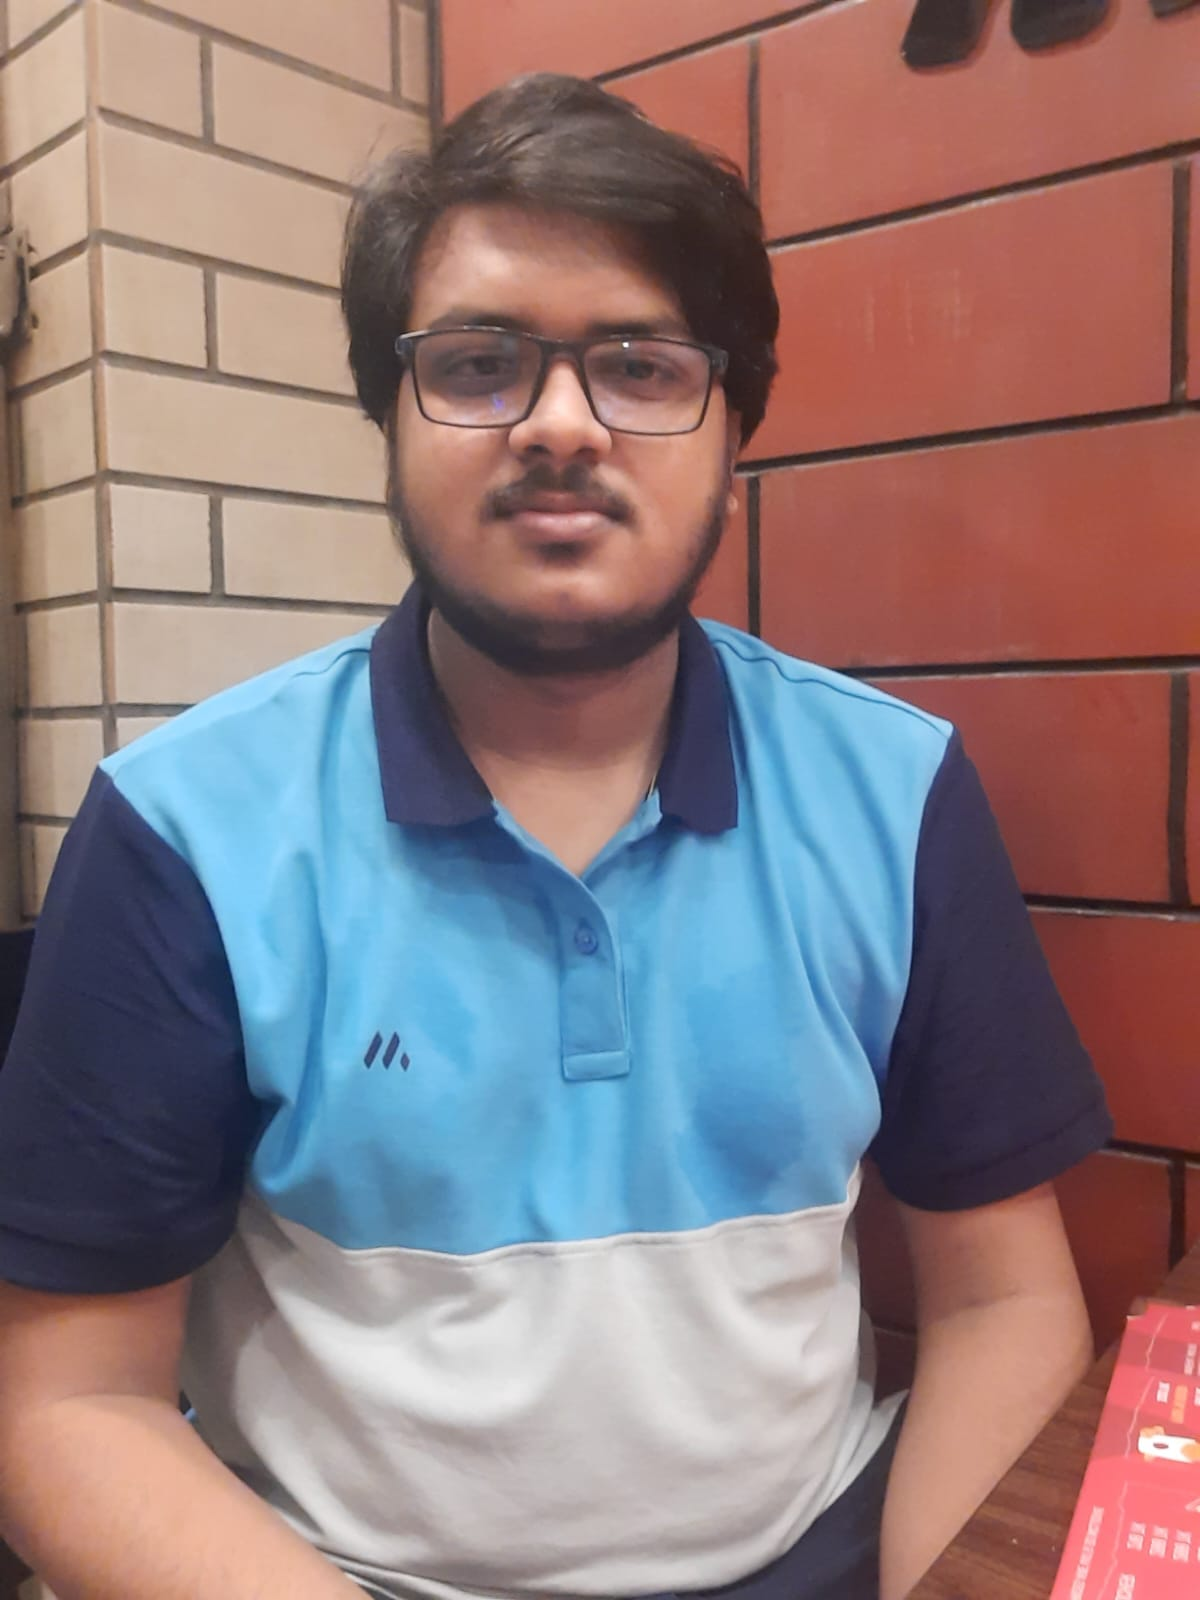
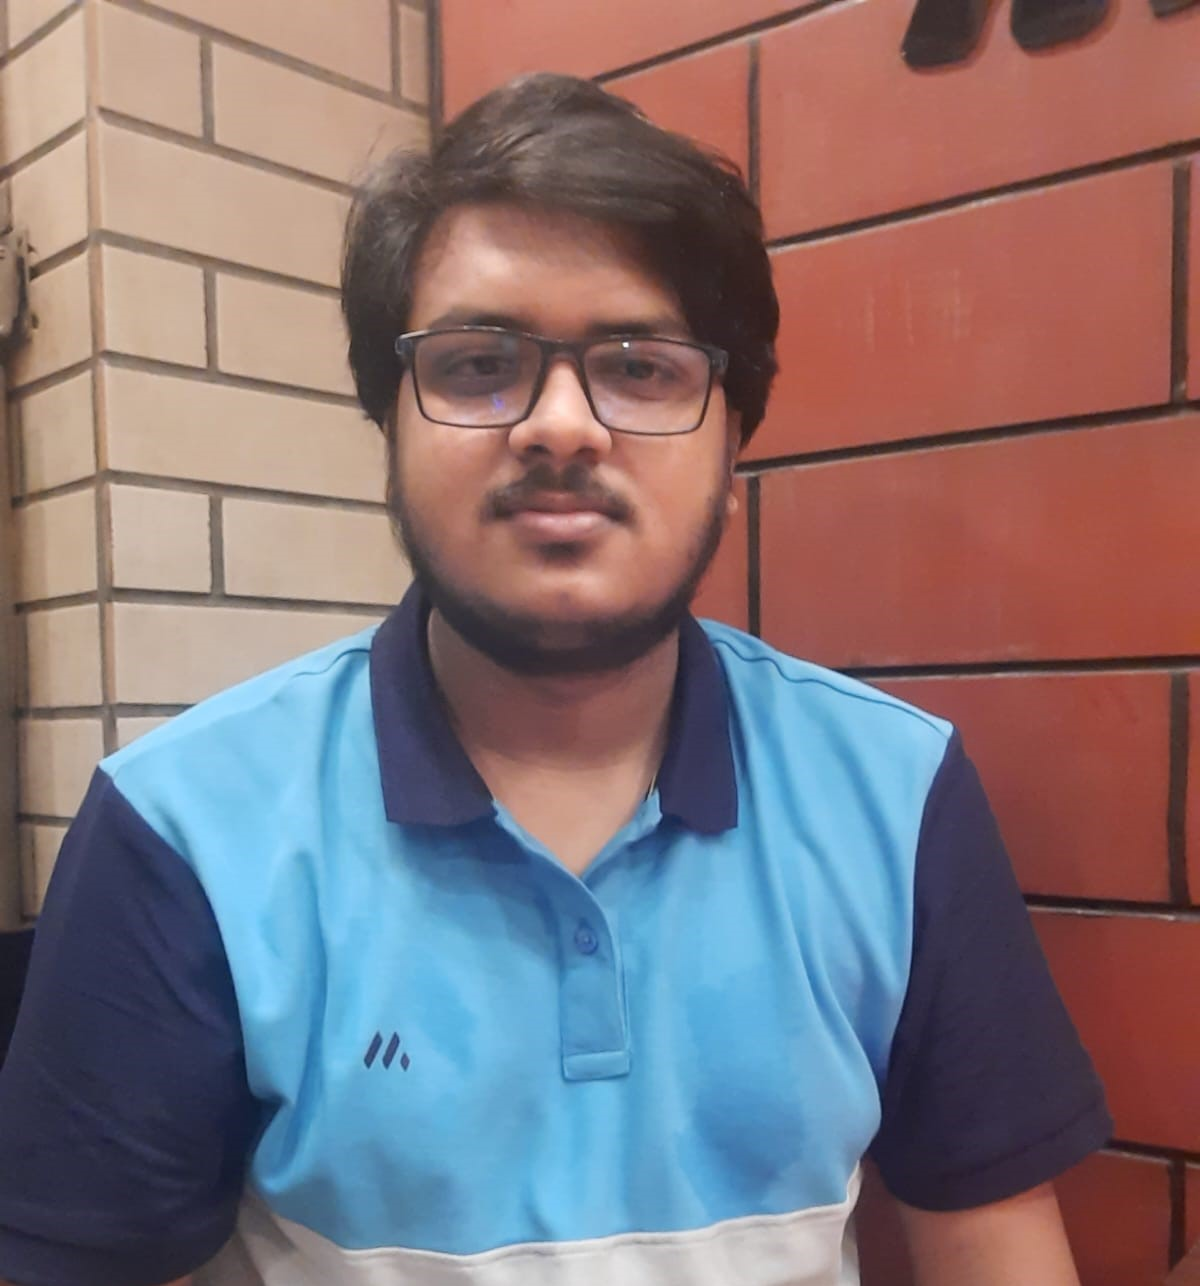
added css

diff --git a/index.html b/index.html
@@ -4,6 +4,12 @@
     <meta charset="UTF-8">
     <meta name="viewport" content="width=device-width, initial-scale=1.0">
     <title>My Portfolio</title>
+    <link rel="stylesheet" type="text/css" href="style.css">
+    <link rel="preconnect" href="https://fonts.googleapis.com">
+    <link rel="preconnect" href="https://fonts.googleapis.com">
+    <link rel="preconnect" href="https://fonts.gstatic.com" crossorigin>
+    <link href="https://fonts.googleapis.com/css2?family=Nunito+Sans:opsz@6..12&display=swap" rel="stylesheet">
+    <link rel="stylesheet" href="https://cdnjs.cloudflare.com/ajax/libs/font-awesome/6.4.0/css/all.min.css" integrity="sha512-iecdLmaskl7CVkqkXNQ/ZH/XLlvWZOJyj7Yy7tcenmpD1ypASozpmT/E0iPtmFIB46ZmdtAc9eNBvH0H/ZpiBw==" crossorigin="anonymous" referrerpolicy="no-referrer" />
 </head>
 <body>
     <header>
@@ -15,15 +21,15 @@
         </div>
     </header>
     <main>
-        <section>
-            <div>
-                <h3>HI, I'M MD MAHFUZZUR RAHMAN SHAMMO</h2>
-                <h5>MERN Stack Developer</h5>
-                <p>I am a passionate web developer and a diligent person, currently pursuing my BSc in Computer Science and Engineering at BRAC University.</p>
+        <section class="banner">
+            <div class="banner-content">
+                <h3 style="margin-bottom: 8px;">HI, I'M MD MAHFUZZUR RAHMAN SHAMMO</h2>
+                <h5 style="margin-bottom: 14px;">MERN Stack Developer</h5>
+                <p style="margin-bottom: 14px;">I am a passionate web developer and a diligent person <br> currently pursuing my BSc in Computer Science and Engineering <br>at BRAC University.</p>
                 <button>Download Resume</button>
             </div>
             <div>
-                <img src='/assests/profile.jpg' width="600px">
+                <img src='/assests/profile.jpg' width="450px" height="450px">
             </div>
         </section>
         <section>
@@ -47,28 +53,26 @@
         
     </main>
     <footer>
-       <div> 
-        <nav>
+       <div class="footer-content"> 
+        <nav class="footer-head">
         <header class="footer-title">ADDRESS</header> 
         <p>House-31, Road-4, DIT Project <br/>Merul Badda, Dhaka</p>
         </nav> 
-        <nav>
+        <nav class="footer-head">
             <header class="footer-title">LET'S TALK</header> 
             <p>Mobile: +8801735807444</p>
         </nav> 
-        <nav>
+        <nav class="footer-head">
             <header class="footer-title">SENT ME MAIL</header> 
             <p>Email: mrshammo2018@gmail.com</p>
         </nav>
     </div>
     <div> 
         <p>Shammo © 2023 - All right reserved</p>
-        <div class="">
-            <nav>
-                <a href='https://www.linkedin.com/in/md-mahfuzzur-rahman-shammo-241978244/' class=''></a>
-                <a href='https://github.com/Shammo06' class=''></a>               
-                <a href='https://www.facebook.com/mahfuzzurrahman.shammo.9/' class=''></a>
-            </nav>
+        <div class="footer-icon">            
+            <a href='https://www.linkedin.com/in/md-mahfuzzur-rahman-shammo-241978244/' class="fa-brands fa-linkedin"></a>
+            <a href='https://github.com/Shammo06' class="fa-brands fa-github"></a>               
+            <a href='https://www.facebook.com/mahfuzzurrahman.shammo.9/' class="fa-brands fa-facebook"></a>
         </div>
     </div>
     </footer>

diff --git a/style.css b/style.css
@@ -1,0 +1,102 @@
+/* Reset some default styles for better consistency */
+*{
+    font-family: 'Nunito Sans', sans-serif;
+}
+body, h1, h2, h3, h4, h5, h6, p, ul, li {
+    margin: 0;
+    padding: 0;
+}
+
+/* Header Styles */
+header {
+    background-color: #3f8a5f;
+    color: #fff;
+    padding: 10px;
+}
+
+.navbar {
+    display: flex;
+    justify-content: center;
+    list-style-type: none;
+    gap: 20px;
+}
+
+.navbar a {
+    text-decoration: none;
+    color: #fff;
+}
+
+/* Main Section Styles */
+main {
+    margin: 20px;
+}
+
+.banner{
+    display:flex;
+    justify-content: center;
+}
+.banner-content{
+    margin: auto;
+    font-size: large;
+       
+}
+
+
+
+/* Profile Section Styles */
+section div {
+    margin: 20px;
+}
+
+button {
+    background-color: #333;
+    color: #fff;
+    padding: 10px 20px;
+    border: none;
+    cursor: pointer;
+}
+
+/* Skills Section Styles */
+h3 {
+    color: #333;
+}
+
+li {
+    list-style-type: none;
+    margin-bottom: 5px;
+}
+
+/* Footer Styles */
+footer {
+    background-color: #3f8a5f;
+    color: #fff;
+    padding: 20px;
+    text-align: center;
+}
+.footer-content{
+    display:flex;
+    justify-content: space-between;
+}
+
+
+.footer-title {
+    font-weight: bold;
+    margin-bottom: 10px;
+}
+.footer-icon{
+    font-size: 32px;
+    gap:10px;
+}
+
+
+/* Copyright Styles */
+p {
+    margin-top: 10px;
+}
+
+/* Responsive Design */
+@media (max-width: 600px) {
+    main {
+        margin: 10px;
+    }
+}
